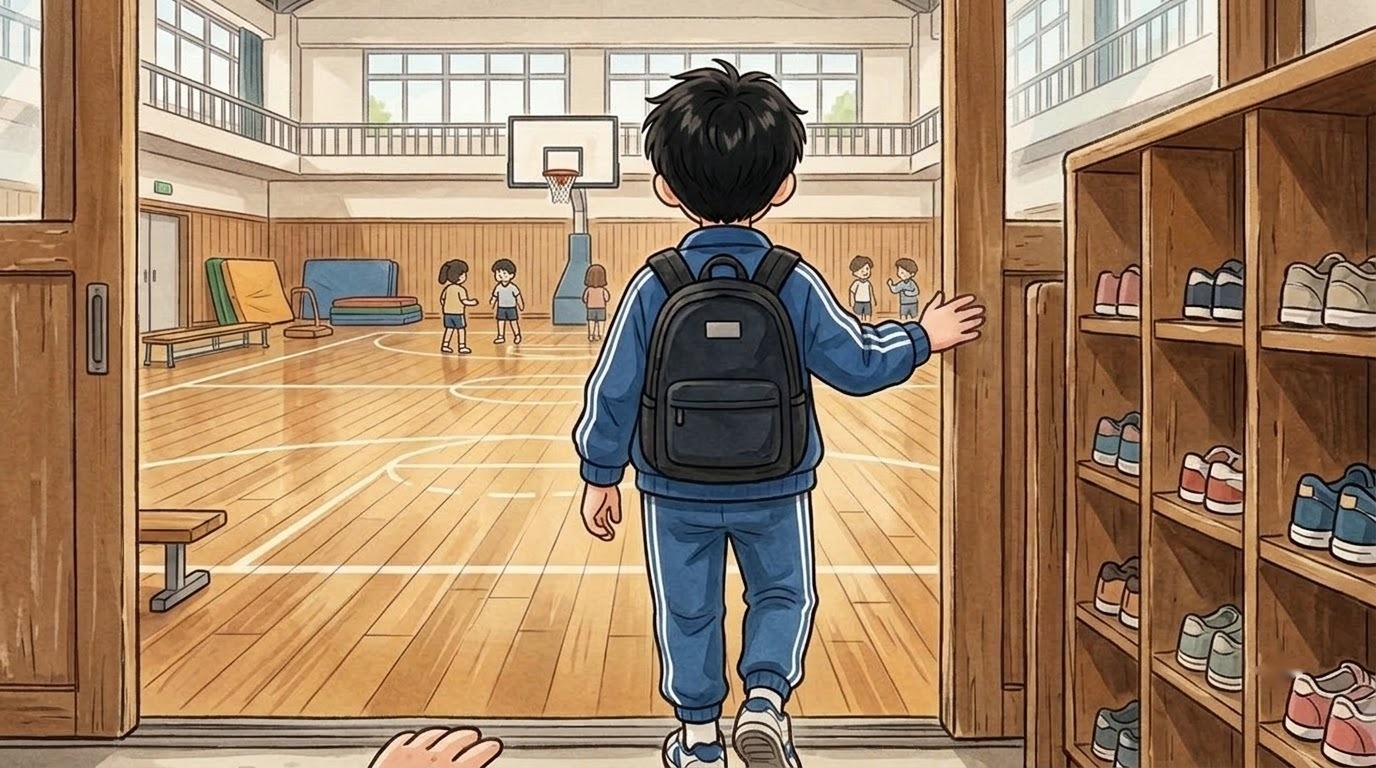
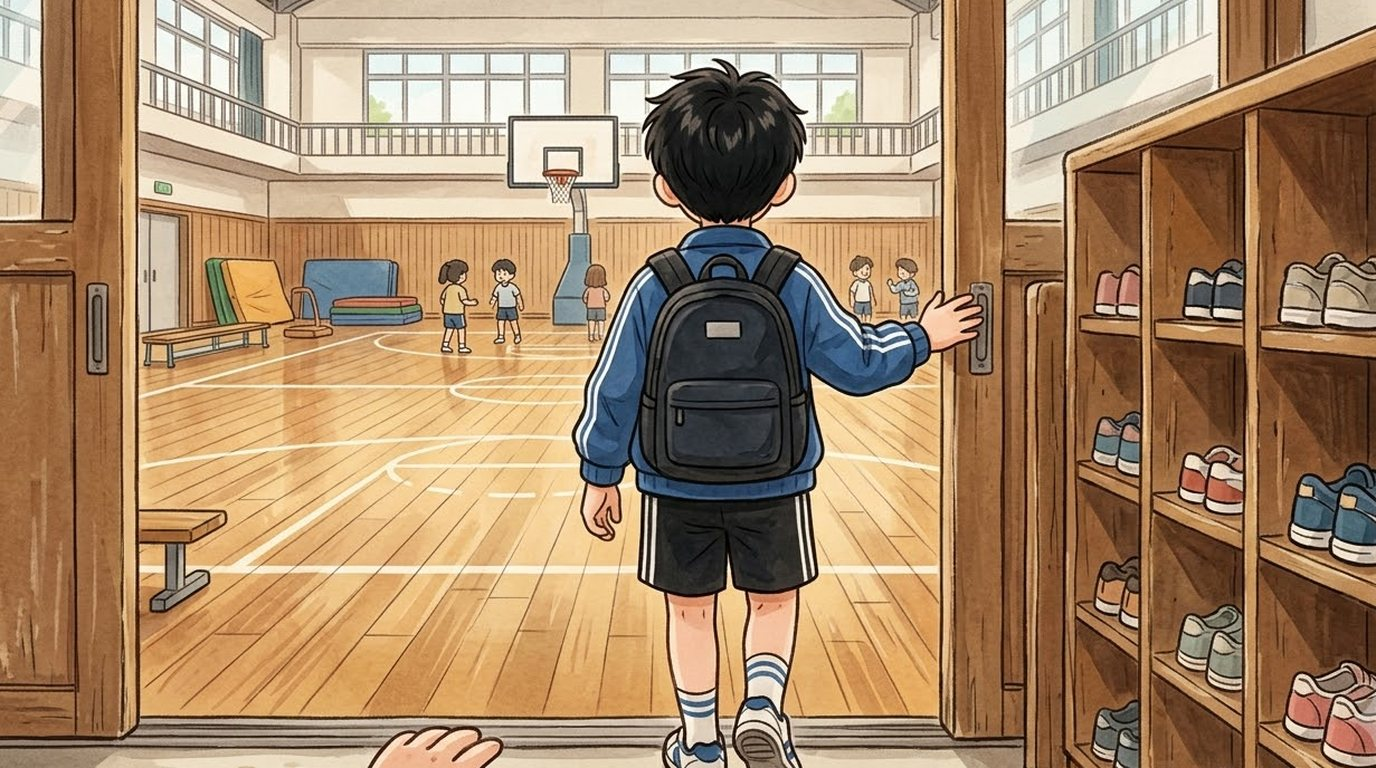
준호 2일차 체육관 들어가기(junho_02d): 원래 그림(검은 반바지)으로 되돌림 — 같은 날 다른 그림도 모두 반바지

diff --git a/index.html b/index.html
@@ -119,14 +119,14 @@ body,button{word-break:keep-all;overflow-wrap:break-word}
 <div id="fader"></div>
 <script>
 // same address, newest version: if the page this phone has kept is older than the one online, fetch the new one and reopen
-const BUILD='1109104657';
+const BUILD='1109105223';
 try{fetch(location.pathname,{cache:'no-store'}).then(r=>r.text()).then(t=>{const m=t.match(/const BUILD='(\d+)'/);if(m&&m[1]!==BUILD&&sessionStorage.getItem('upd')!==m[1]){sessionStorage.setItem('upd',m[1]);fetch(location.pathname,{cache:'reload'}).then(()=>location.reload())}}).catch(()=>{})}catch(e){}
 </script>
-<script src="i18n.js?v=1109104657"></script>
-<script src="i18n_prologue_v2.js?v=1109104657"></script>
-<script src="day2/i18n_engine.js?v=1109104657"></script>
-<script src="day2/data.js?v=1109104657"></script>
-<script src="day3/data.js?v=1109104657"></script>
+<script src="i18n.js?v=1109105223"></script>
+<script src="i18n_prologue_v2.js?v=1109105223"></script>
+<script src="day2/i18n_engine.js?v=1109105223"></script>
+<script src="day2/data.js?v=1109105223"></script>
+<script src="day3/data.js?v=1109105223"></script>
 <script>
 // ---------- data ----------
 const MW=1672,MH=941,KID=180;
@@ -569,36 +569,36 @@ function pickHero(){const m=document.getElementById('modal'),c=document.getEleme
  c.innerHTML=`<h2>${tr('전학생 반장되기')}</h2><p>${tr('한국말이 아직 서툰 전학생,<br>반장 선거에 나가다.')}</p><p style="margin-top:14px">${tr('누구로 할까요?')}</p>${(()=>{const s=loadSave();return s&&s.day>=2&&s.mode===UI+'-'+LANG?`<p><button class="big" id="cont">${tr('{n}일차부터 이어 하기').replace('{n}',s.day)}</button></p>`:''})()}<div class="pick heroes"><button data-h="hero_f"><img src="faces/hero_f_smile.jpg" alt="여자 주인공">${heroName(1)}</button><button data-h="hero_m"><img src="faces/hero_m_smile.jpg" alt="남자 주인공">${heroName(0)}</button></div>`;
  m.classList.add('on');{const cb=document.getElementById('cont');if(cb)cb.onclick=()=>{const s=loadSave();HERO=s.hero;Object.assign(HEART,s.heart||{});(s.found||[]).forEach(k=>FOUND.add(k));HEART_D1={...HEART};chime();(typeof contGame==='function'?contGame(s):startDay(Math.min(s.day,Object.keys(window.D3||{}).length?3:2)))}}c.querySelectorAll('.pick button').forEach(b=>b.onclick=()=>{HERO=b.dataset.h;m.classList.remove('on');chime();bgm('day');load('home_am');say([['nar','','이사 온 다음 날 아침. 아직 풀지 못한 상자들이 쌓여 있다.'],['think','sad','(오늘부터 새 학교야. 여기 말도 아직 서툰데…….)'],['think','smile','({m}한테 인사하고 학교 가야지.)']],morning)})}
 </script>
-<script src="day2/engine.js?v=1109104657"></script>
-<script src="day2/ep_minho.js?v=1109104657"></script>
-<script src="day2/meet.js?v=1109104657"></script>
-<script src="day2/ep_sua.js?v=1109104657"></script>
-<script src="day2/ep_hangyeol.js?v=1109104657"></script>
-<script src="day2/ep_siwoo.js?v=1109104657"></script>
-<script src="day2/ep_haram.js?v=1109104657"></script>
-<script src="day2/ep_jiho.js?v=1109104657"></script>
-<script src="day2/ep_hyeeun.js?v=1109104657"></script>
-<script src="day2/ep_haneul.js?v=1109104657"></script>
-<script src="day2/ep_junho.js?v=1109104657"></script>
-<script src="day2/ep_yuna.js?v=1109104657"></script>
-<script src="day2/ep_yena.js?v=1109104657"></script>
-<script src="day2/ep_haeun.js?v=1109104657"></script>
-<script src="day2/ep_youngmin.js?v=1109104657"></script>
-<script src="day2/ep_seah.js?v=1109104657"></script>
-<script src="day2/ep_jihoon.js?v=1109104657"></script>
-<script src="words_ja_ru.js?v=1109104657"></script>
-<script src="day2/mybag.js?v=1109104657"></script>
-<script src="day2/wordpics.js?v=1109104657"></script>
-<script src="day2/spots.js?v=1109104657"></script>
-<script src="day2/textfit.js?v=1109104657"></script>
-<script src="day2/tester.js?v=1109104657"></script>
-<script src="day2/ux.js?v=1109104657"></script>
-<script src="day2/tapword.js?v=1109104657"></script>
-<script src="day2/review.js?v=1109104657"></script>
-<script src="day2/plane.js?v=1109104657"></script>
-<script src="day2/bubble.js?v=1109104657"></script>
-<script src="day2/ep_ending.js?v=1109104657"></script>
-<script src="day2/ending.js?v=1109104657"></script>
+<script src="day2/engine.js?v=1109105223"></script>
+<script src="day2/ep_minho.js?v=1109105223"></script>
+<script src="day2/meet.js?v=1109105223"></script>
+<script src="day2/ep_sua.js?v=1109105223"></script>
+<script src="day2/ep_hangyeol.js?v=1109105223"></script>
+<script src="day2/ep_siwoo.js?v=1109105223"></script>
+<script src="day2/ep_haram.js?v=1109105223"></script>
+<script src="day2/ep_jiho.js?v=1109105223"></script>
+<script src="day2/ep_hyeeun.js?v=1109105223"></script>
+<script src="day2/ep_haneul.js?v=1109105223"></script>
+<script src="day2/ep_junho.js?v=1109105223"></script>
+<script src="day2/ep_yuna.js?v=1109105223"></script>
+<script src="day2/ep_yena.js?v=1109105223"></script>
+<script src="day2/ep_haeun.js?v=1109105223"></script>
+<script src="day2/ep_youngmin.js?v=1109105223"></script>
+<script src="day2/ep_seah.js?v=1109105223"></script>
+<script src="day2/ep_jihoon.js?v=1109105223"></script>
+<script src="words_ja_ru.js?v=1109105223"></script>
+<script src="day2/mybag.js?v=1109105223"></script>
+<script src="day2/wordpics.js?v=1109105223"></script>
+<script src="day2/spots.js?v=1109105223"></script>
+<script src="day2/textfit.js?v=1109105223"></script>
+<script src="day2/tester.js?v=1109105223"></script>
+<script src="day2/ux.js?v=1109105223"></script>
+<script src="day2/tapword.js?v=1109105223"></script>
+<script src="day2/review.js?v=1109105223"></script>
+<script src="day2/plane.js?v=1109105223"></script>
+<script src="day2/bubble.js?v=1109105223"></script>
+<script src="day2/ep_ending.js?v=1109105223"></script>
+<script src="day2/ending.js?v=1109105223"></script>
 <script>
 // the goal shows big for a few seconds, then folds into a small pill (tap it to open it again)
 {const g=document.getElementById('goal');let t=null;const big=()=>{g.classList.remove('mini');clearTimeout(t);t=setTimeout(()=>g.classList.add('mini'),4000)};
